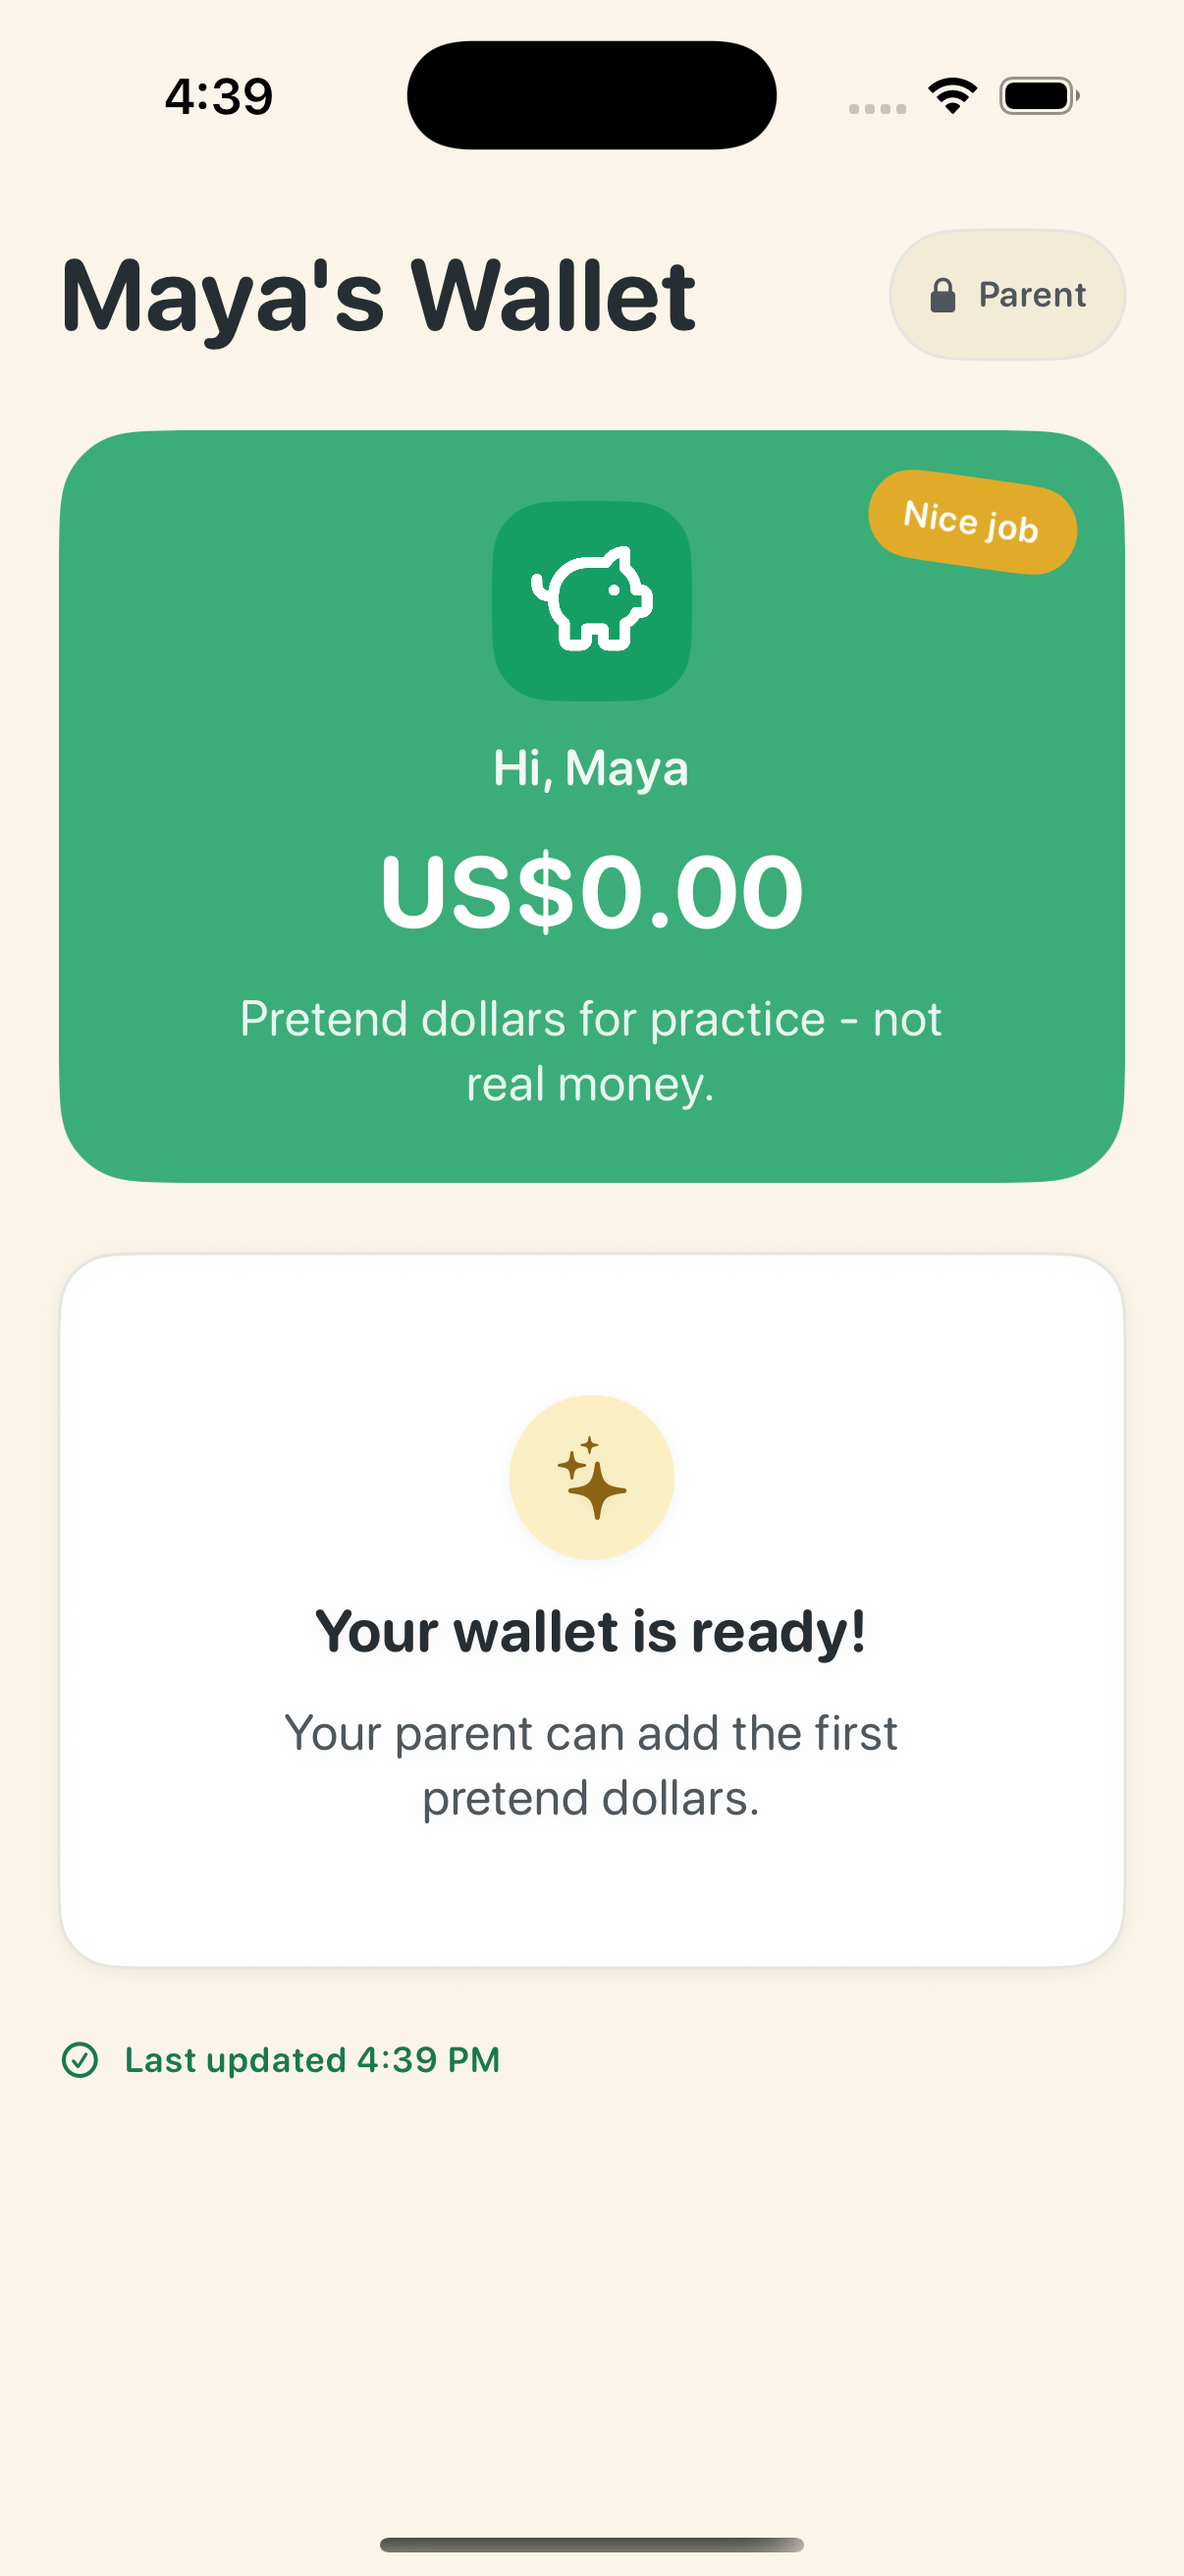
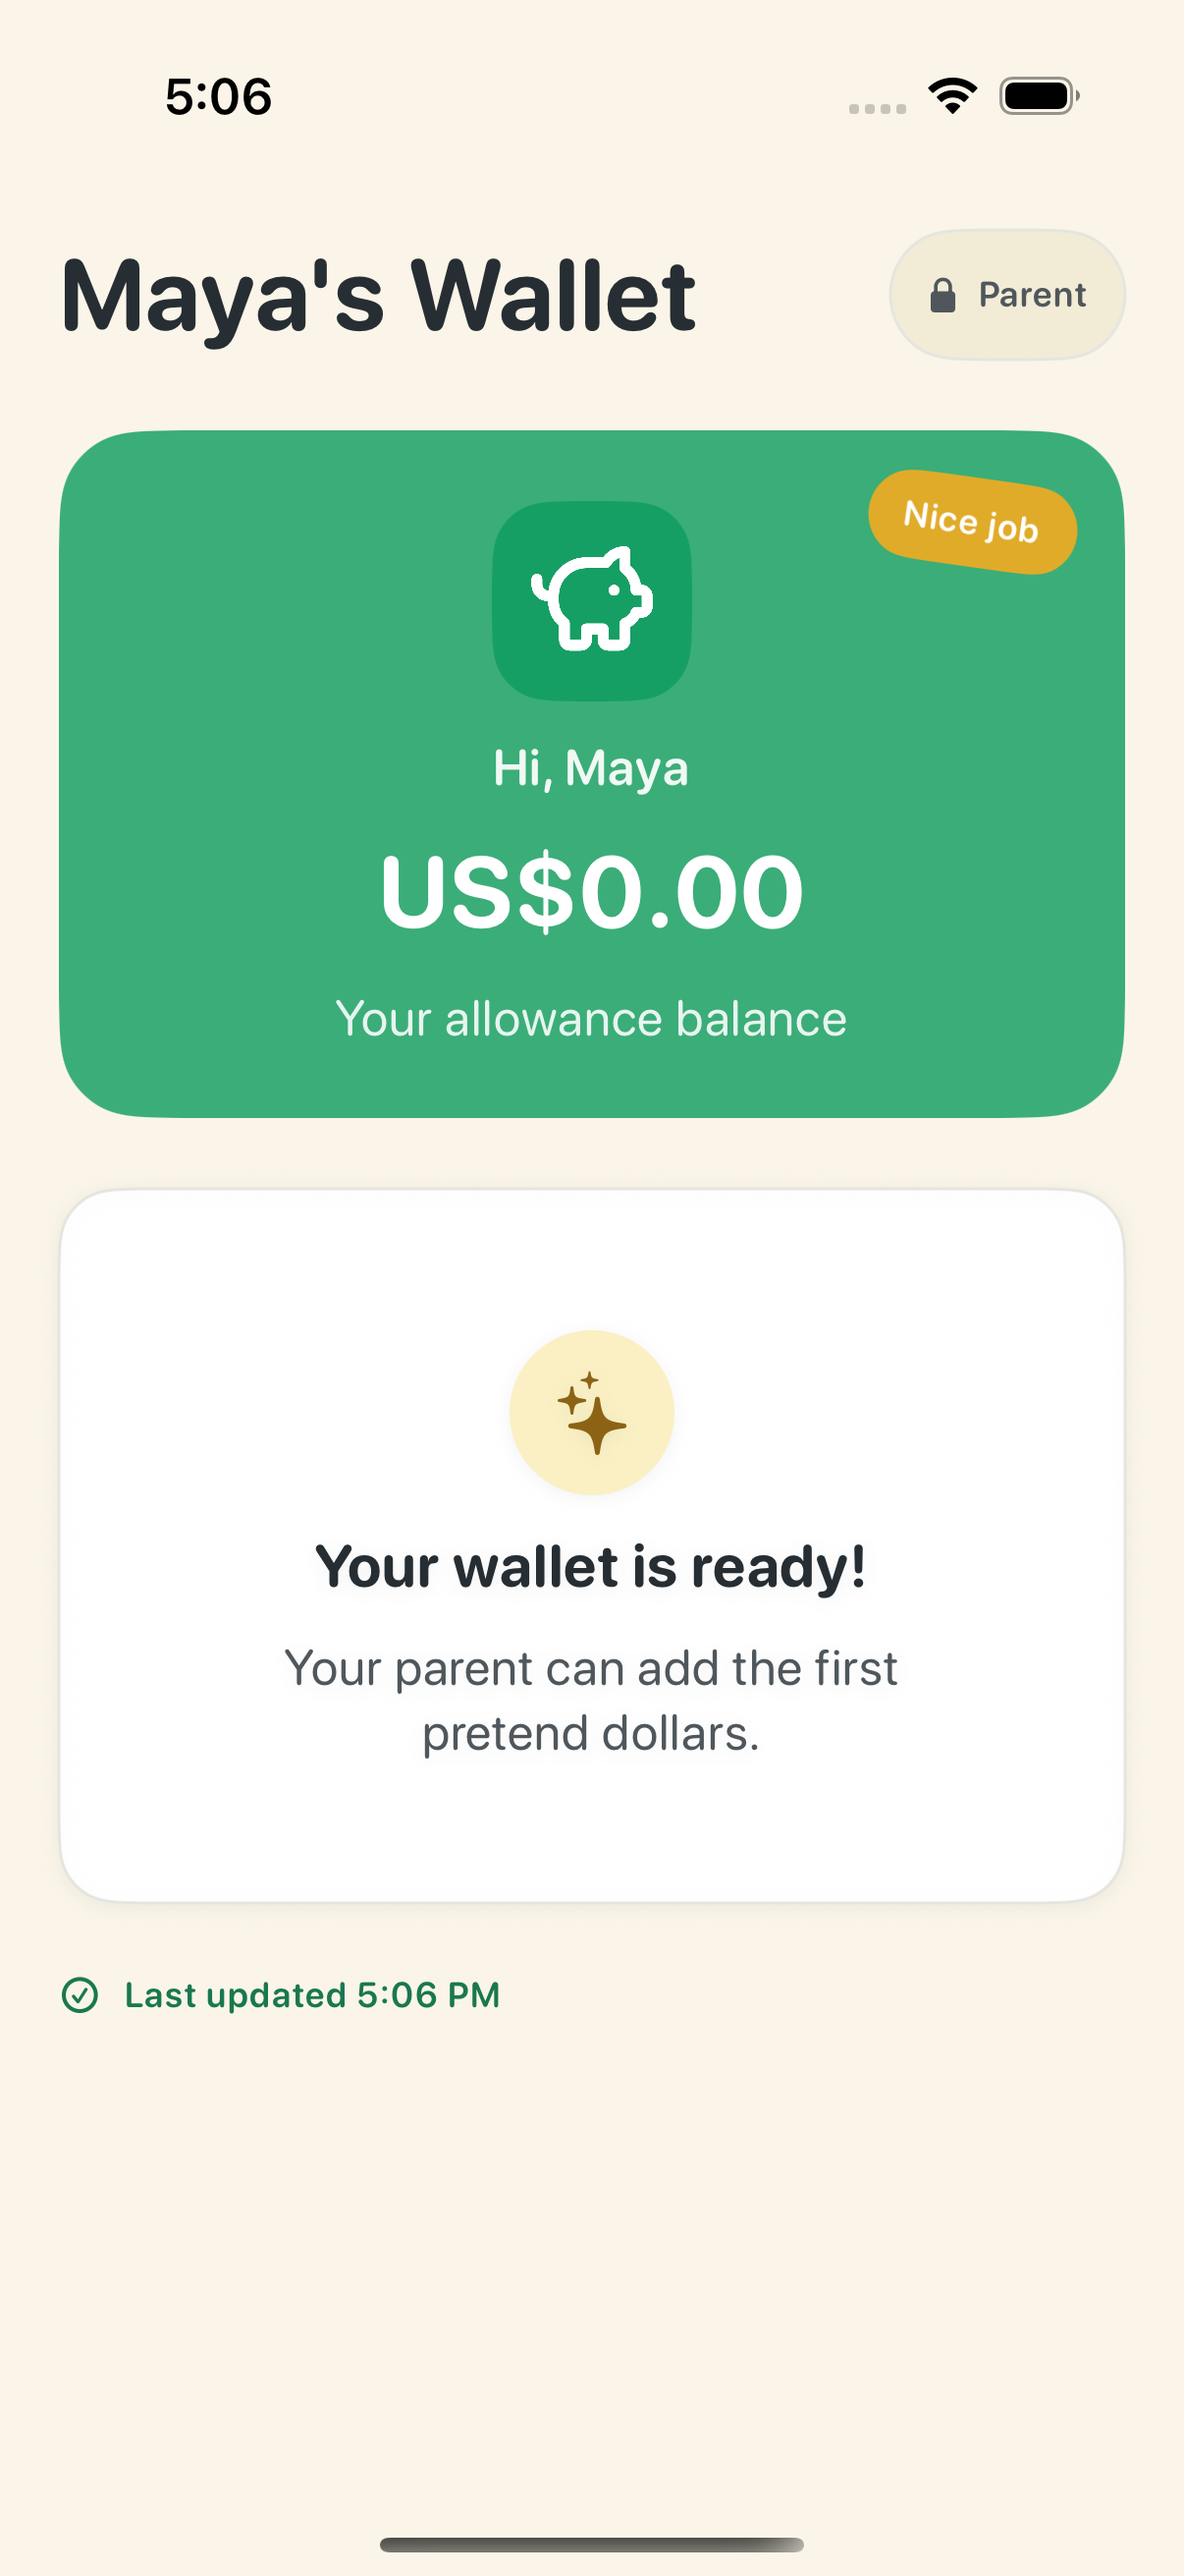
no-mistakes(document): Align PRD with audience-split balance copy

diff --git a/EddysWalletUITests/EvidenceCaptureUITests.swift b/EddysWalletUITests/EvidenceCaptureUITests.swift
@@ -37,6 +37,15 @@ final class EvidenceCaptureUITests: XCTestCase {
         try? screenshot.pngRepresentation.write(to: url)
     }
 
+    private func captureBrandPlacement(_ name: String) throws {
+        guard let evidenceDirectory else { return }
+        let screenshot = XCUIScreen.main.screenshot()
+        try FileManager.default.createDirectory(at: evidenceDirectory, withIntermediateDirectories: true)
+        let idiom = UIDevice.current.userInterfaceIdiom == .pad ? "ipad" : "iphone"
+        let url = evidenceDirectory.appendingPathComponent("\(idiom)-\(name).png")
+        try screenshot.pngRepresentation.write(to: url, options: .atomic)
+    }
+
     private func enterPIN(_ pin: String, in app: XCUIApplication) {
         for digit in pin {
             app.buttons["PIN digit \(digit)"].tap()
@@ -266,6 +275,47 @@ final class EvidenceCaptureUITests: XCTestCase {
         XCTAssertTrue(app.staticTexts["Hi, Maya"].waitForExistence(timeout: 5))
         XCTAssertTrue(app.staticTexts["Maya's Wallet"].exists)
         capture("kid-home-renamed")
+    }
+
+    func testBrandPlacementTour() throws {
+        let maya = launch("configured", environment: ["EW_UITEST_NICKNAME": "Maya"])
+        XCTAssertTrue(maya.staticTexts["Maya's Wallet"].waitForExistence(timeout: 10))
+        XCTAssertTrue(maya.staticTexts["Hi, Maya"].exists)
+        XCTAssertTrue(maya.staticTexts["Your allowance balance"].exists)
+        XCTAssertFalse(maya.staticTexts["Pretend dollars for practice - not real money."].exists)
+        XCTAssertFalse(maya.staticTexts["Eddie's Wallet"].exists)
+        try captureBrandPlacement("maya-kid")
+
+        unlockParentArea(maya)
+        XCTAssertTrue(maya.staticTexts["Maya's virtual balance"].waitForExistence(timeout: 5))
+        XCTAssertTrue(maya.buttons["Done. Back to Maya's wallet"].exists)
+        XCTAssertFalse(maya.staticTexts["Eddie's Wallet"].exists)
+        try captureBrandPlacement("maya-parent")
+
+        let mayaEmpty = launch("configured-empty", environment: ["EW_UITEST_NICKNAME": "Maya"])
+        XCTAssertTrue(mayaEmpty.staticTexts["Maya's Wallet"].waitForExistence(timeout: 10))
+        XCTAssertTrue(mayaEmpty.staticTexts["Your wallet is ready!"].exists)
+        try captureBrandPlacement("maya-empty")
+
+        let neutral = launch("configured", environment: ["EW_UITEST_NICKNAME": ""])
+        XCTAssertTrue(neutral.staticTexts["Your wallet"].waitForExistence(timeout: 10))
+        XCTAssertTrue(neutral.staticTexts["Your allowance balance"].exists)
+        XCTAssertFalse(neutral.staticTexts["Pretend dollars for practice - not real money."].exists)
+        XCTAssertFalse(neutral.staticTexts["Eddie's Wallet"].exists)
+        try captureBrandPlacement("neutral-kid")
+
+        let eddie = launch("configured")
+        XCTAssertTrue(eddie.staticTexts["Eddie's Wallet"].waitForExistence(timeout: 10))
+        XCTAssertTrue(eddie.staticTexts["Hi, Eddie"].exists)
+        XCTAssertTrue(eddie.staticTexts["Your allowance balance"].exists)
+        try captureBrandPlacement("eddie-personal-kid")
+
+        let welcome = XCUIApplication()
+        welcome.launch()
+        XCTAssertTrue(welcome.descendants(matching: .any)["product-brand-wordmark"].waitForExistence(timeout: 10))
+        XCTAssertTrue(welcome.staticTexts["Eddie's Wallet"].exists)
+        XCTAssertTrue(welcome.staticTexts["Virtual practice only"].exists)
+        try captureBrandPlacement("welcome")
     }
 
     func testParentEmptyHandoffTour() throws {
